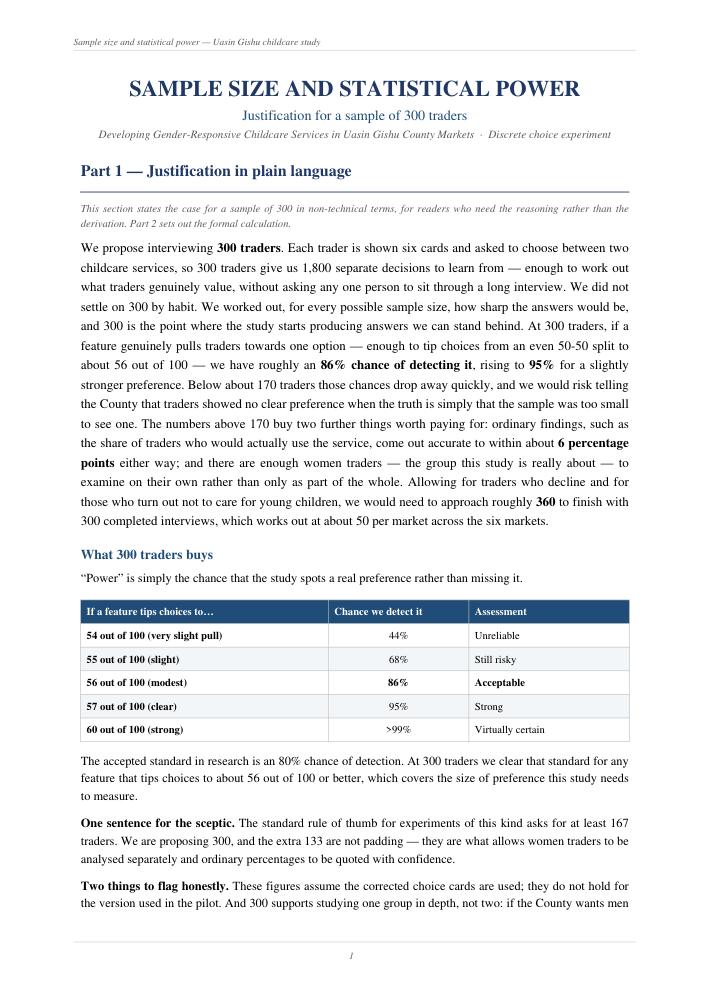
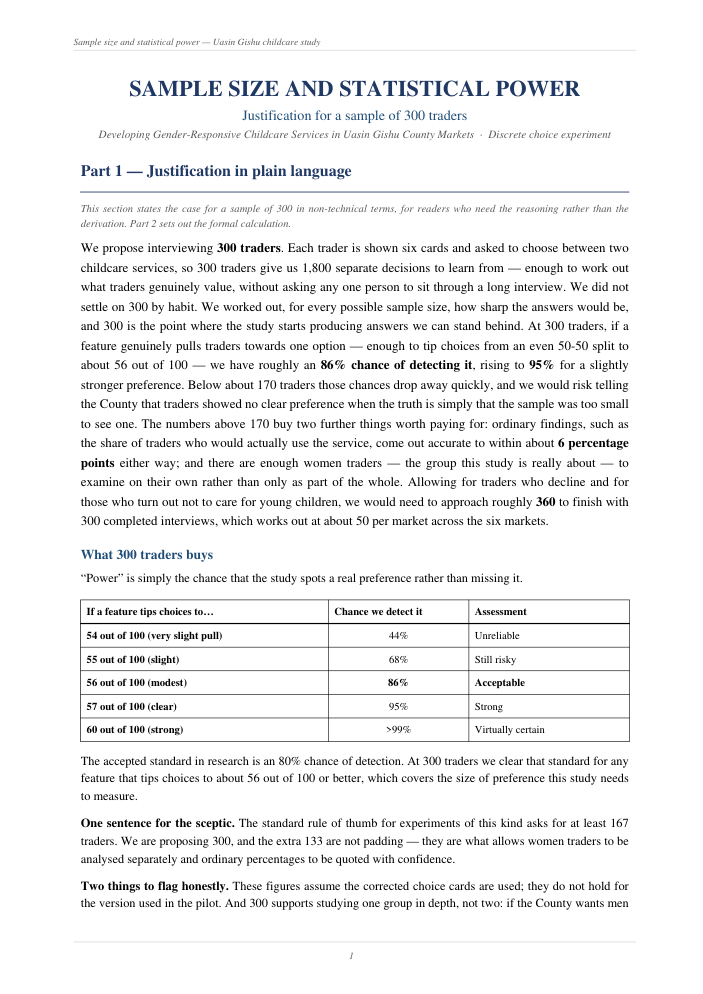
Plain tables in the sample-size PDF
Removes the blue header fills and the alternating row shading. Tables are
now black rules on white with a bold header row and a heavier line
beneath it - the conventional style for a methods document.

Verified by re-rendering: no non-white filled shapes remain anywhere in
the document.

Claude-Session: https://claude.ai/code/session_015z8iQZvhhCEr5eCaMGMQyY

Changed region(s): [[0.0896, 0.5926, 0.8962, 0.7485], [0.8663, 0.7173, 0.8962, 0.7485], [0.4481, 0.7173, 0.478, 0.7485]]

diff --git a/output/pdf/build_pdf.py b/output/pdf/build_pdf.py
@@ -38,8 +38,7 @@ S = dict(
                     spaceBefore=3, spaceAfter=4),
  cell=ParagraphStyle('cl', fontName='Times-Roman', fontSize=9, leading=12),
  cellb=ParagraphStyle('cb', fontName='Times-Bold', fontSize=9, leading=12),
- cellh=ParagraphStyle('ch', fontName='Times-Bold', fontSize=9, leading=12,
-                      textColor=colors.white),
+ cellh=ParagraphStyle('ch', fontName='Times-Bold', fontSize=9, leading=12),
  cellc=ParagraphStyle('cc', fontName='Times-Roman', fontSize=9, leading=12,
                       alignment=TA_CENTER),
  cellbc=ParagraphStyle('cbc', fontName='Times-Bold', fontSize=9, leading=12,
@@ -67,13 +66,11 @@ def tbl(header, rows, widths, align=None):
             row.append(Paragraph(c, S[st]))
         data.append(row)
     t = Table(data, colWidths=[w*cm for w in widths], repeatRows=1, hAlign='LEFT')
-    style = [('BACKGROUND', (0,0), (-1,0), STEEL),
-             ('VALIGN', (0,0), (-1,-1), 'MIDDLE'),
-             ('GRID', (0,0), (-1,-1), 0.5, RULE),
+    style = [('VALIGN', (0,0), (-1,-1), 'MIDDLE'),
+             ('GRID', (0,0), (-1,-1), 0.5, colors.black),
+             ('LINEBELOW', (0,0), (-1,0), 1.0, colors.black),
              ('TOPPADDING', (0,0), (-1,-1), 4), ('BOTTOMPADDING', (0,0), (-1,-1), 4),
              ('LEFTPADDING', (0,0), (-1,-1), 5), ('RIGHTPADDING', (0,0), (-1,-1), 5)]
-    for i in range(1, len(data)):
-        if i % 2 == 0: style.append(('BACKGROUND', (0,i), (-1,i), SOFT))
     t.setStyle(TableStyle(style))
     return KeepTogether([Spacer(1,3), t, Spacer(1,9)])
 

diff --git a/tools/build_sample_size_pdf.py b/tools/build_sample_size_pdf.py
@@ -38,8 +38,7 @@ S = dict(
                     spaceBefore=3, spaceAfter=4),
  cell=ParagraphStyle('cl', fontName='Times-Roman', fontSize=9, leading=12),
  cellb=ParagraphStyle('cb', fontName='Times-Bold', fontSize=9, leading=12),
- cellh=ParagraphStyle('ch', fontName='Times-Bold', fontSize=9, leading=12,
-                      textColor=colors.white),
+ cellh=ParagraphStyle('ch', fontName='Times-Bold', fontSize=9, leading=12),
  cellc=ParagraphStyle('cc', fontName='Times-Roman', fontSize=9, leading=12,
                       alignment=TA_CENTER),
  cellbc=ParagraphStyle('cbc', fontName='Times-Bold', fontSize=9, leading=12,
@@ -67,13 +66,11 @@ def tbl(header, rows, widths, align=None):
             row.append(Paragraph(c, S[st]))
         data.append(row)
     t = Table(data, colWidths=[w*cm for w in widths], repeatRows=1, hAlign='LEFT')
-    style = [('BACKGROUND', (0,0), (-1,0), STEEL),
-             ('VALIGN', (0,0), (-1,-1), 'MIDDLE'),
-             ('GRID', (0,0), (-1,-1), 0.5, RULE),
+    style = [('VALIGN', (0,0), (-1,-1), 'MIDDLE'),
+             ('GRID', (0,0), (-1,-1), 0.5, colors.black),
+             ('LINEBELOW', (0,0), (-1,0), 1.0, colors.black),
              ('TOPPADDING', (0,0), (-1,-1), 4), ('BOTTOMPADDING', (0,0), (-1,-1), 4),
              ('LEFTPADDING', (0,0), (-1,-1), 5), ('RIGHTPADDING', (0,0), (-1,-1), 5)]
-    for i in range(1, len(data)):
-        if i % 2 == 0: style.append(('BACKGROUND', (0,i), (-1,i), SOFT))
     t.setStyle(TableStyle(style))
     return KeepTogether([Spacer(1,3), t, Spacer(1,9)])
 
